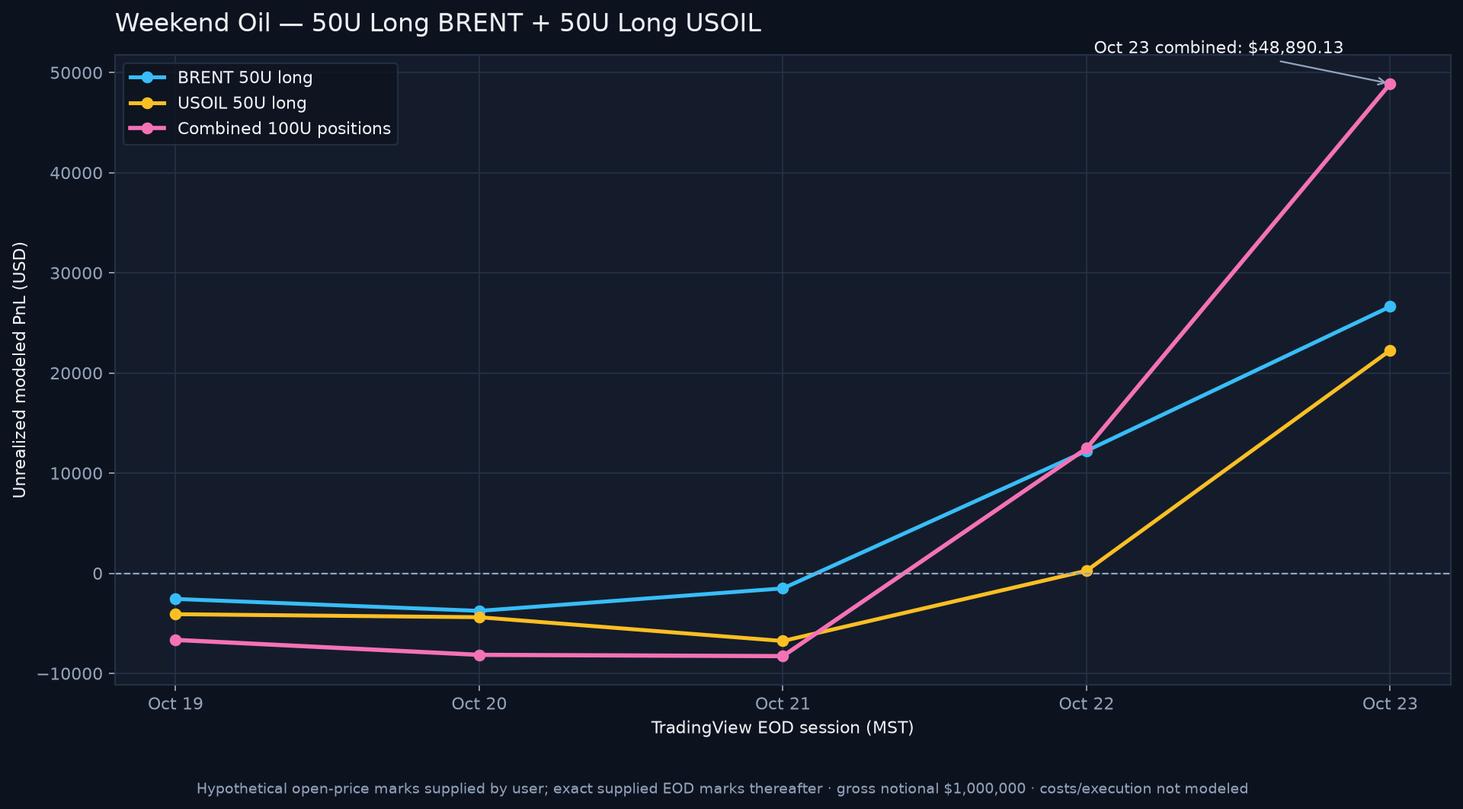
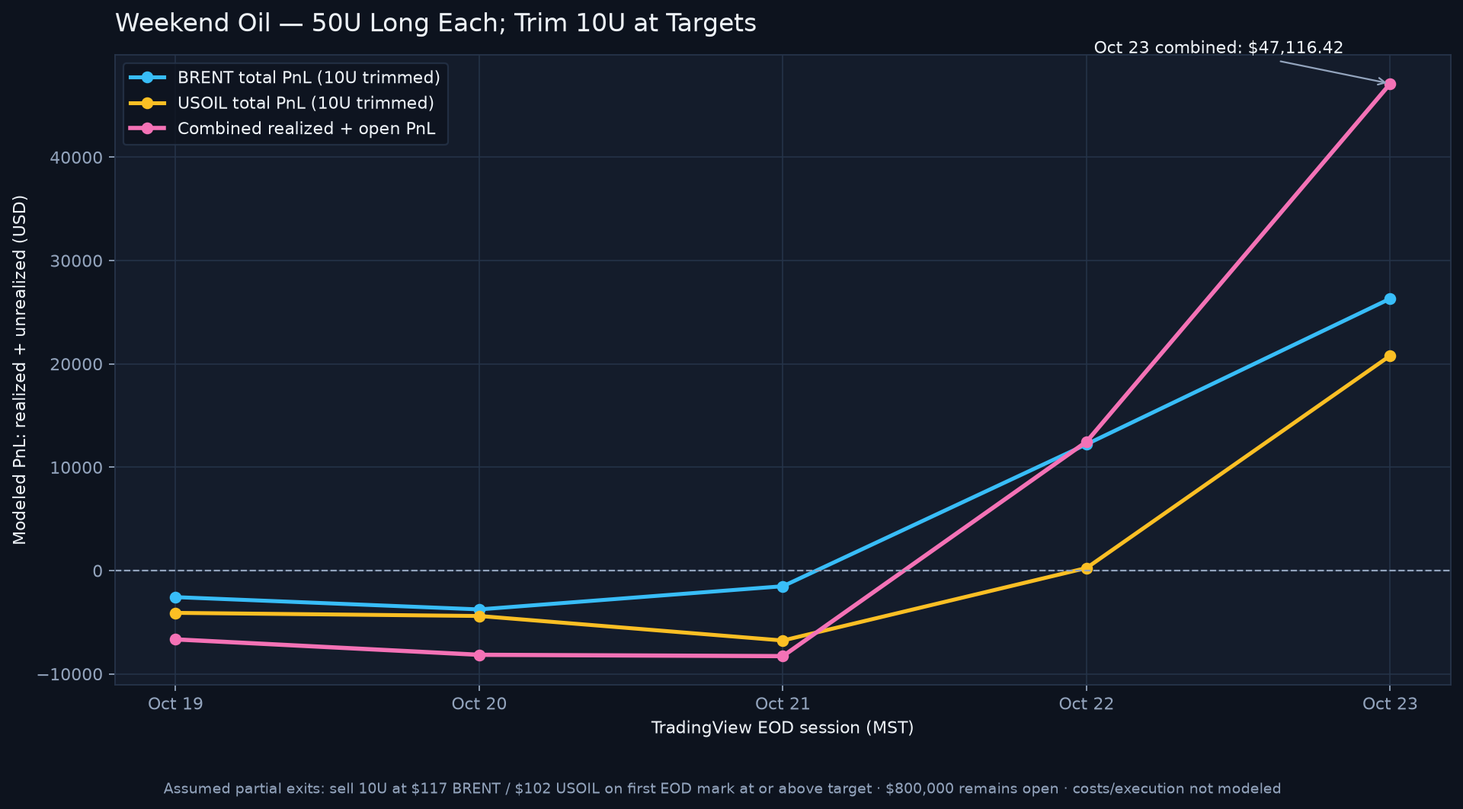
Model partial oil trims from thesis targets

diff --git a/Model Performance Explorer.html b/Model Performance Explorer.html
@@ -110,7 +110,7 @@
   </div>
 
   <footer>
-    Generated 2026-10-25 04:34 MST. Core marks: user-provided TradingView EOD lists. The four variants model
+    Generated 2026-10-25 04:42 MST. Core marks: user-provided TradingView EOD lists. The four variants model
     the 31 direct-price symbols; the integrated 1U/DAY/DXY sleeve uses supplied DXY index marks.
     EURUSD, JPYUSD and US30Y are outside this portfolio valuation. LCID pilot marks are user-provided. The per-model US10Y additive overlay is retained as a legacy reference only; whole-account US10Y and US30Y multiplier scenarios live in the linked explorer. The Oct 23 ORCL LONG and fifth LCID LONG are included in this EOD model replay.
     Intraday source charts remain through Oct 22. The master <b>Trades Zip PnL.md</b> has not been recalculated for

diff --git a/scripts/build_weekend_oil_50u_positions.py b/scripts/build_weekend_oil_50u_positions.py
@@ -36,12 +36,16 @@ POSITIONS = {
         "instrument": "BlackBull Markets Brent Cash EOD marks",
         "entry_price": Decimal("111.412"),
         "entry_source": "User-provided TradingView opening mark for 2026-10-19",
+        "trim_units_u": Decimal("10"),
+        "trim_price": Decimal("117"),
     },
     "OIL": {
         "display_ticker": "USOIL (repository ticker OIL)",
         "instrument": "TradingView TVC:USOIL EOD marks",
         "entry_price": Decimal("99.04"),
         "entry_source": "User-provided TradingView opening mark for 2026-10-19",
+        "trim_units_u": Decimal("10"),
+        "trim_price": Decimal("102"),
     },
 }
 SOURCE_URL = "https://github.com/A44674928/Financial_Model_Records/blob/main/Weekend%20Oil%20(10-17%20%26%2010-18).zip"
@@ -96,14 +100,27 @@ def build_rows():
         raise ValueError(f"Weekend Oil source archive SHA-256 mismatch: {actual_sha}")
 
     marks = load_marks()
-    gross_notional = UNITS_U * UNIT_NOTIONAL_USD
+    opened_notional = UNITS_U * UNIT_NOTIONAL_USD
     rows = []
     for ticker, details in POSITIONS.items():
         entry = details["entry_price"]
+        trim_units = details["trim_units_u"]
+        trim_price = details["trim_price"]
+        trim_trigger = next((mark for mark in marks[ticker] if mark["close"] >= trim_price), None)
+        trim_date = trim_trigger["date"] if trim_trigger else ""
+        trim_gross_notional = trim_units * UNIT_NOTIONAL_USD
+        trim_realized_pnl = _money(trim_gross_notional * (trim_price / entry - Decimal("1")))
+
         for session_number, mark in enumerate(marks[ticker], start=1):
             close = mark["close"]
-            pnl = _money(gross_notional * (close / entry - Decimal("1")))
-            market_value = _money(gross_notional + pnl)
+            trim_has_filled = bool(trim_date and mark["date"] >= trim_date)
+            sold_units = trim_units if trim_has_filled else Decimal("0")
+            open_units = UNITS_U - sold_units
+            open_notional = open_units * UNIT_NOTIONAL_USD
+            realized_pnl = trim_realized_pnl if trim_has_filled else Decimal("0.00")
+            remaining_unrealized_pnl = _money(open_notional * (close / entry - Decimal("1")))
+            total_pnl = realized_pnl + remaining_unrealized_pnl
+            market_value = _money(open_notional + remaining_unrealized_pnl)
             rows.append({
                 "date": mark["date"],
                 "ticker": details["display_ticker"],
@@ -112,14 +129,22 @@ def build_rows():
                 "entry_date": ENTRY_DATE,
                 "entry_price": f"{entry:f}",
                 "entry_price_source": details["entry_source"],
-                "unit_size_u": f"{UNITS_U:f}",
-                "unit_notional_usd": f"{UNIT_NOTIONAL_USD:f}",
-                "gross_notional_usd": f"{gross_notional:.2f}",
+                "opened_units_u": f"{UNITS_U:f}",
+                "opened_gross_notional_usd": f"{opened_notional:.2f}",
+                "trim_units_u": f"{trim_units:f}",
+                "trim_target_price": f"{trim_price:f}",
+                "assumed_trim_date": trim_date,
+                "units_sold_cumulative_u": f"{sold_units:f}",
+                "trim_gross_notional_usd": f"{trim_gross_notional:.2f}" if trim_has_filled else "0.00",
+                "realized_pnl_usd": f"{realized_pnl:.2f}",
+                "open_units_u": f"{open_units:f}",
+                "gross_open_notional_usd": f"{open_notional:.2f}",
                 "sessions_marked": str(session_number),
                 "eod_close": f"{close:f}",
-                "market_value_usd": f"{market_value:.2f}",
-                "unrealized_pnl_usd": f"{pnl:.2f}",
-                "pnl_to_gross_notional_pct": f"{(pnl / gross_notional * Decimal('100')).quantize(Decimal('0.000001'), rounding=ROUND_HALF_UP):.6f}",
+                "remaining_market_value_usd": f"{market_value:.2f}",
+                "remaining_unrealized_pnl_usd": f"{remaining_unrealized_pnl:.2f}",
+                "total_realized_plus_unrealized_pnl_usd": f"{total_pnl:.2f}",
+                "pnl_to_opening_gross_notional_pct": f"{(total_pnl / opened_notional * Decimal('100')).quantize(Decimal('0.000001'), rounding=ROUND_HALF_UP):.6f}",
                 "mark_source": mark["source"],
                 "mark_instrument": mark["instrument"],
             })
@@ -143,7 +168,7 @@ def write_chart(rows):
         for ticker in POSITIONS
     }
     combined = [
-        sum(Decimal(next(row for row in rows if row["repository_ticker"] == ticker and row["date"] == day)["unrealized_pnl_usd"])
+        sum(Decimal(next(row for row in rows if row["repository_ticker"] == ticker and row["date"] == day)["total_realized_plus_unrealized_pnl_usd"])
             for ticker in POSITIONS)
         for day in days
     ]
@@ -157,25 +182,25 @@ def write_chart(rows):
     ax.tick_params(colors=MUTED)
     for spine in ax.spines.values():
         spine.set_color(GRID)
-    for ticker, label in (("BRENT", "BRENT 50U long"), ("OIL", "USOIL 50U long")):
-        values = [Decimal(row["unrealized_pnl_usd"]) for row in by_ticker[ticker]]
+    for ticker, label in (("BRENT", "BRENT total PnL (10U trimmed)"), ("OIL", "USOIL total PnL (10U trimmed)")):
+        values = [Decimal(row["total_realized_plus_unrealized_pnl_usd"]) for row in by_ticker[ticker]]
         ax.plot(dates, [float(value) for value in values], marker="o", linewidth=2.3,
                 color=COLORS[ticker], label=label)
     ax.plot(dates, [float(value) for value in combined], marker="o", linewidth=2.5,
-            color=COLORS["COMBINED"], label="Combined 100U positions")
+            color=COLORS["COMBINED"], label="Combined realized + open PnL")
     ax.axhline(0, color=MUTED, linewidth=1, linestyle="--")
-    ax.set_ylabel("Unrealized modeled PnL (USD)", color=FG)
+    ax.set_ylabel("Modeled PnL: realized + unrealized (USD)", color=FG)
     ax.set_xlabel("TradingView EOD session (MST)", color=FG)
     ax.set_xticks(dates)
     ax.set_xticklabels([day.strftime("%b %d") for day in dates], color=MUTED)
-    ax.set_title("Weekend Oil — 50U Long BRENT + 50U Long USOIL", color=FG, loc="left", fontsize=15, pad=14)
+    ax.set_title("Weekend Oil — 50U Long Each; Trim 10U at Targets", color=FG, loc="left", fontsize=15, pad=14)
     ax.legend(facecolor=BG, edgecolor=GRID, labelcolor=FG)
     terminal = combined[-1]
     ax.annotate(f"Oct 23 combined: ${terminal:,.2f}", (dates[-1], float(terminal)),
                 xytext=(-175, 18), textcoords="offset points", color=FG,
                 arrowprops={"arrowstyle": "->", "color": MUTED})
     fig.text(0.5, 0.015,
-             "Hypothetical open-price marks supplied by user; exact supplied EOD marks thereafter · gross notional $1,000,000 · costs/execution not modeled",
+             "Assumed partial exits: sell 10U at $117 BRENT / $102 USOIL on first EOD mark at or above target · $800,000 remains open · costs/execution not modeled",
              ha="center", color=MUTED, fontsize=8.5)
     fig.tight_layout(rect=(0.02, 0.06, 0.99, 0.98))
     fig.savefig(CHART, dpi=160, facecolor=fig.get_facecolor(), bbox_inches="tight")
@@ -187,47 +212,61 @@ def write_report(rows):
     lines = [
         "# Weekend Oil 50U Position Hypothetical",
         "",
-        "> **Hypothetical educational mark-to-market only.** These are not broker executions, a verified account return, or a recommendation. Both assumed positions remain open through the latest supplied EOD marks, with no costs, financing, slippage, or liquidation modeled.",
+        "> **Hypothetical educational mark-to-market only.** The partial exits below are assumed paper trades, not broker executions, a verified account return, or a recommendation. Costs, financing, slippage, and liquidation are not modeled.",
         "",
-        "## Position assumptions",
+        "## Position and trim assumptions",
         "",
-        "The user requested one **50U LONG** position in BRENT and one **50U LONG** position in USOIL, opened at the **2026-10-19 market open**. Under the repository convention of 1U = $10,000 notional, each position starts at $500,000 gross notional; combined gross notional is $1,000,000.",
+        "The user specified a **50U LONG** position each in BRENT and USOIL at the **2026-10-19 market open**, with entry marks of $111.412 and $99.04 respectively. The thesis instruction is modeled as selling **10U of BRENT at $117** and **10U of USOIL at $102**, leaving **40U open in each** after the assumed trims. At $10,000 notional per unit, opening gross notional is $1,000,000 total; $200,000 of unit-basis gross notional is trimmed and $800,000 remains open.",
         "",
-        "| Instrument | Internal ticker | Side / size | Assumed 2026-10-19 open | Entry-mark source | Daily EOD mark source | Oct. 23 EOD mark | Oct. 23 unrealized PnL | PnL ÷ gross notional |",
-        "|---|---|---:|---:|---|---|---:|---:|---:|",
+        "| Instrument | Entry price | Trim instruction | Modeled trigger session | Realized PnL on 10U sale | Oct. 23 EOD mark | Remaining 40U unrealized PnL | Total realized + unrealized PnL | Remaining gross open notional |",
+        "|---|---:|---|---|---:|---:|---:|---:|---:|",
     ]
     terminal_by_ticker = {}
     for ticker, details in POSITIONS.items():
         ticker_rows = [row for row in rows if row["repository_ticker"] == ticker]
         last = ticker_rows[-1]
-        terminal_by_ticker[ticker] = Decimal(last["unrealized_pnl_usd"])
+        terminal_by_ticker[ticker] = {
+            "realized": Decimal(last["realized_pnl_usd"]),
+            "unrealized": Decimal(last["remaining_unrealized_pnl_usd"]),
+            "total": Decimal(last["total_realized_plus_unrealized_pnl_usd"]),
+            "open_notional": Decimal(last["gross_open_notional_usd"]),
+        }
         entry_display = f"${details['entry_price']:,.3f}".rstrip("0").rstrip(".")
+        trim_display = f"${details['trim_price']:,.3f}".rstrip("0").rstrip(".")
         mark_display = f"${Decimal(last['eod_close']):,.3f}".rstrip("0").rstrip(".")
         lines.append(
-            f"| {details['display_ticker']} | `{ticker}` | 50U LONG | {entry_display} | User-provided TradingView open | "
-            f"{last['mark_source']} | {mark_display} | ${Decimal(last['unrealized_pnl_usd']):+,.2f} | "
-            f"{Decimal(last['pnl_to_gross_notional_pct']):.4f}% |"
+            f"| {details['display_ticker']} | {entry_display} | Sell 10U at {trim_display} | {last['assumed_trim_date']} | "
+            f"${terminal_by_ticker[ticker]['realized']:+,.2f} | {mark_display} | "
+            f"${terminal_by_ticker[ticker]['unrealized']:+,.2f} | ${terminal_by_ticker[ticker]['total']:+,.2f} | "
+            f"${terminal_by_ticker[ticker]['open_notional']:,.2f} |"
         )
-    combined = sum(terminal_by_ticker.values(), Decimal("0"))
+    combined_realized = sum((v["realized"] for v in terminal_by_ticker.values()), Decimal("0"))
+    combined_unrealized = sum((v["unrealized"] for v in terminal_by_ticker.values()), Decimal("0"))
+    combined_total = combined_realized + combined_unrealized
+    combined_ratio = (combined_total / (UNITS_U * UNIT_NOTIONAL_USD * 2) * 100).quantize(Decimal("0.0001"), rounding=ROUND_HALF_UP)
     lines.extend([
-        f"| **Combined** | — | **100U LONG** | — | — | — | — | **${combined:+,.2f}** | **{(combined / (UNITS_U * UNIT_NOTIONAL_USD * 2) * 100).quantize(Decimal('0.0001'), rounding=ROUND_HALF_UP):.4f}%** |",
+        f"| **Combined** | — | **Sell 20U total** | **2026-10-23 assumed** | **${combined_realized:+,.2f}** | — | **${combined_unrealized:+,.2f}** | **${combined_total:+,.2f}** | **$800,000.00** |",
+        "",
+        f"The combined realized PnL is **${combined_realized:,.2f}**; the remaining open positions carry **${combined_unrealized:,.2f}** unrealized PnL at the Oct. 23 marks. Total modeled PnL is **${combined_total:,.2f}**, or {combined_ratio:.4f}% of the original $1,000,000 gross notional—not an account return.",
         "",
         "## Session marks and PnL",
         "",
-        "PnL is marked using `gross notional × (EOD close ÷ assumed open − 1)`. Both positions are long and remain open. The Oct. 19 result is the first EOD mark after the assumed opening; it is not zero-PnL because the entry prices are the separately supplied market-open marks.",
+        "For the open portion, PnL is `open gross notional × (EOD close ÷ entry price − 1)`. When an EOD mark first equals or exceeds its trim target, the model assumes the specified 10U sale occurred at the target price, realizes that tranche's PnL, and marks the remaining 40U at the session close. Available daily data are closes only: Oct. 23 is the first recorded EOD at/above either target, so the report assigns that modeled trigger session. It does **not** verify the intraday touch, fill time, or actual execution at the target.",
         "",
-        "| EOD date | Instrument | EOD close | Gross notional | Unrealized PnL | PnL / gross notional | Mark source |",
-        "|---|---|---:|---:|---:|---:|---|",
+        "| EOD date | Instrument | EOD close | Units sold cumulative | Units open | Realized PnL | Remaining unrealized PnL | Total PnL | Mark source |",
+        "|---|---|---:|---:|---:|---:|---:|---:|---|",
     ])
     for row in rows:
         close = Decimal(row["eod_close"])
         lines.append(
-            f"| {row['date']} | {row['ticker']} | ${close:,.3f} | ${Decimal(row['gross_notional_usd']):,.2f} | "
-            f"${Decimal(row['unrealized_pnl_usd']):+,.2f} | {Decimal(row['pnl_to_gross_notional_pct']):.4f}% | {row['mark_source']} |"
+            f"| {row['date']} | {row['ticker']} | ${close:,.3f} | {Decimal(row['units_sold_cumulative_u']):g}U | "
+            f"{Decimal(row['open_units_u']):g}U | ${Decimal(row['realized_pnl_usd']):+,.2f} | "
+            f"${Decimal(row['remaining_unrealized_pnl_usd']):+,.2f} | "
+            f"${Decimal(row['total_realized_plus_unrealized_pnl_usd']):+,.2f} | {row['mark_source']} |"
         )
     lines.extend([
         "",
-        f"![50U long BRENT and 50U long USOIL hypothetical PnL](Charts/performance/{CHART.name})",
+        f"![50U long BRENT and USOIL positions with assumed 10U trims](Charts/performance/{CHART.name})",
         "",
         f"Session-level export: [`{OUTPUT_CSV.name}`](data/{OUTPUT_CSV.name}).",
         "",
@@ -235,10 +274,10 @@ def write_report(rows):
         "",
         f"- Weekend source archive: [`{SOURCE_ARCHIVE.name}`]({quote(SOURCE_ARCHIVE.name)}); [upstream GitHub file]({SOURCE_URL}) at commit `{SOURCE_COMMIT}`; SHA-256 `{SOURCE_SHA256}`.",
         "- The archive contains two annotated IG **Weekend Oil – US Crude (CLN25)** screenshots dated Oct. 17 and Oct. 18, not a complete OHLC history and not separate BRENT/USOIL Monday-open price files. The screenshots are retained as source context, not transcribed as daily marks.",
-        "- The two Oct. 19 open prices, BRENT $111.412 and USOIL $99.04, were provided by the user and identified as TradingView. BRENT is stored internally as `BRENT`; USOIL maps to the repository ticker `OIL`.",
+        "- The two Oct. 19 open prices, BRENT $111.412 and USOIL $99.04, and the trim levels/size were provided by the user. BRENT is stored internally as `BRENT`; USOIL maps to repository ticker `OIL`.",
         "- Subsequent EOD values come from [`energy_provider_eod_marks_v1.csv`](data/energy_provider_eod_marks_v1.csv): BlackBull Markets Brent Cash for BRENT and TradingView TVC:USOIL for OIL. No new or external daily prices are inserted.",
-        "- This one-time 50U-per-instrument overlay is **not included** in the core replay, THE ONE MODEL's 32-portfolio aggregate, or standard 10U energy strategy-comparison composites. It is a separate hypothetical with $1,000,000 combined gross notional, not an account-capital return.",
-        "- PnL excludes commissions, spread, slippage, financing, CFD contract multipliers/tracking differences, taxes, margin, and execution constraints. The notional-percentage view is a simple gross-notional ratio, not an account return.",
+        "- The assumed target sale is not included in the core replay, THE ONE MODEL's 32-portfolio aggregate, or standard 10U energy strategy-comparison composites. This is a separate hypothetical position overlay, not a change to those model results.",
+        "- PnL excludes commissions, spread, slippage, financing, CFD contract multipliers/tracking differences, taxes, margin, and execution constraints. The percentage shown is measured against opening gross notional, not account equity.",
         "",
     ])
     REPORT.write_text("\n".join(lines), encoding="utf-8")

diff --git a/tests/test_weekend_oil_50u_positions.py b/tests/test_weekend_oil_50u_positions.py
@@ -15,19 +15,31 @@ class WeekendOil50UPositionTests(unittest.TestCase):
         cls.rows = weekend_oil.build_rows()
         cls.report = weekend_oil.REPORT.read_text(encoding="utf-8")
 
-    def test_open_assumptions_and_terminal_pnl_reconcile(self):
+    def test_open_assumptions_trim_levels_and_terminal_pnl_reconcile(self):
         self.assertEqual(len(self.rows), 10)
         terminal = {row["repository_ticker"]: row for row in self.rows if row["date"] == "2026-10-23"}
         self.assertEqual(terminal["BRENT"]["entry_price"], "111.412")
         self.assertEqual(terminal["OIL"]["entry_price"], "99.04")
-        self.assertEqual(terminal["BRENT"]["gross_notional_usd"], "500000.00")
-        self.assertEqual(terminal["OIL"]["gross_notional_usd"], "500000.00")
-        self.assertEqual(terminal["BRENT"]["unrealized_pnl_usd"], "26626.40")
-        self.assertEqual(terminal["OIL"]["unrealized_pnl_usd"], "22263.73")
-        self.assertEqual(
-            Decimal(terminal["BRENT"]["unrealized_pnl_usd"]) + Decimal(terminal["OIL"]["unrealized_pnl_usd"]),
-            Decimal("48890.13"),
-        )
+        self.assertEqual(terminal["BRENT"]["opened_gross_notional_usd"], "500000.00")
+        self.assertEqual(terminal["OIL"]["opened_gross_notional_usd"], "500000.00")
+        self.assertEqual(terminal["BRENT"]["trim_target_price"], "117")
+        self.assertEqual(terminal["OIL"]["trim_target_price"], "102")
+        self.assertEqual(terminal["BRENT"]["units_sold_cumulative_u"], "10")
+        self.assertEqual(terminal["OIL"]["units_sold_cumulative_u"], "10")
+        self.assertEqual(terminal["BRENT"]["open_units_u"], "40")
+        self.assertEqual(terminal["OIL"]["open_units_u"], "40")
+        self.assertEqual(terminal["BRENT"]["realized_pnl_usd"], "5015.62")
+        self.assertEqual(terminal["OIL"]["realized_pnl_usd"], "2988.69")
+        self.assertEqual(terminal["BRENT"]["remaining_unrealized_pnl_usd"], "21301.12")
+        self.assertEqual(terminal["OIL"]["remaining_unrealized_pnl_usd"], "17810.99")
+        self.assertEqual(terminal["BRENT"]["total_realized_plus_unrealized_pnl_usd"], "26316.74")
+        self.assertEqual(terminal["OIL"]["total_realized_plus_unrealized_pnl_usd"], "20799.68")
+        total = sum(Decimal(row["total_realized_plus_unrealized_pnl_usd"]) for row in terminal.values())
+        realized = sum(Decimal(row["realized_pnl_usd"]) for row in terminal.values())
+        unrealized = sum(Decimal(row["remaining_unrealized_pnl_usd"]) for row in terminal.values())
+        self.assertEqual(total, Decimal("47116.42"))
+        self.assertEqual(realized, Decimal("8004.31"))
+        self.assertEqual(unrealized, Decimal("39112.11"))
         self.assertTrue(all(row["side"] == "LONG" for row in self.rows))
 
     def test_daily_marks_cover_five_sessions_and_keep_sources_distinct(self):
@@ -36,9 +48,12 @@ class WeekendOil50UPositionTests(unittest.TestCase):
             rows = [row for row in self.rows if row["repository_ticker"] == ticker]
             self.assertEqual([row["date"] for row in rows], expected_dates)
             self.assertEqual([row["sessions_marked"] for row in rows], ["1", "2", "3", "4", "5"])
+            self.assertEqual([row["units_sold_cumulative_u"] for row in rows[:4]], ["0"] * 4)
+            self.assertEqual(rows[-1]["assumed_trim_date"], "2026-10-23")
         self.assertIn("BlackBull Markets Brent Cash", self.report)
         self.assertIn("TradingView TVC:USOIL", self.report)
         self.assertIn("not a complete OHLC history", self.report)
+        self.assertIn("does **not** verify the intraday touch", self.report)
 
     def test_overlay_is_linked_and_explicitly_excluded_from_main_models(self):
         self.assertIn("not included", self.report)
@@ -54,7 +69,7 @@ class WeekendOil50UPositionTests(unittest.TestCase):
             rows = list(csv.DictReader(handle))
         self.assertEqual(rows, self.rows)
         self.assertEqual(len(rows), 10)
-        self.assertEqual(rows[-1]["unrealized_pnl_usd"], "22263.73")
+        self.assertEqual(rows[-1]["total_realized_plus_unrealized_pnl_usd"], "20799.68")
 
 
 if __name__ == "__main__":

diff --git a/scripts/build_model_performance.py b/scripts/build_model_performance.py
@@ -1012,7 +1012,7 @@ def write_markdown(series, contrib, charts, daily_csv, ticker_csv, summary_json,
     A("")
     A("*The three panels show 0.05U, 1U, and 10U daily-lot PnL paths on separate scales. The 1U schedule is already included in core PnL; THE ONE MODEL adds the 10U schedule to every split portfolio (11U/DAY combined), while 0.05U remains an alternative.*")
     A("")
-    A("A separate user-requested scenario assumes 50U-long BRENT and 50U-long USOIL positions opened at the supplied Oct. 19 TradingView marks. It is excluded from the core replay, THE ONE MODEL aggregate, and standard energy composites; details and source notes are in [`Weekend Oil 50U Position Hypothetical.md`](Weekend%20Oil%2050U%20Position%20Hypothetical.md).")
+    A("A separate user-requested scenario assumes 50U-long BRENT and 50U-long USOIL positions opened at the supplied Oct. 19 TradingView marks, then models a 10U trim at $117 BRENT and $102 USOIL. It is excluded from the core replay, THE ONE MODEL aggregate, and standard energy composites; trim assumptions and source notes are in [`Weekend Oil 50U Position Hypothetical.md`](Weekend%20Oil%2050U%20Position%20Hypothetical.md).")
     A("")
     A("![50U long BRENT and 50U long USOIL hypothetical PnL](Charts/performance/24-weekend-oil-50u-positions.png)")
     A("")

diff --git a/scripts/build_tradingview_sidecars.py b/scripts/build_tradingview_sidecars.py
@@ -326,7 +326,7 @@ def write_report(oil_rows, dxy_rows):
         "",
         "## One-time Weekend Oil position overlay",
         "",
-        "A separate hypothetical assumes 50U LONG BRENT and 50U LONG USOIL positions opened at the user-provided TradingView prices on 2026-10-19. This is not part of the standard 0.05U/1U/10U daily-buy schedules, the 10U energy strategy composites, or THE ONE MODEL’s 32-portfolio aggregate. See [`Weekend Oil 50U Position Hypothetical.md`](Weekend%20Oil%2050U%20Position%20Hypothetical.md) for the entry marks, subsequent EOD PnL, source archive, and caveats.",
+        "A separate hypothetical assumes 50U LONG BRENT and 50U LONG USOIL positions opened at the user-provided TradingView prices on 2026-10-19, then models a 10U trim at $117 BRENT and $102 USOIL when the EOD marks first meet or exceed those targets. This is not part of the standard 0.05U/1U/10U daily-buy schedules, the 10U energy strategy composites, or THE ONE MODEL’s 32-portfolio aggregate. See [`Weekend Oil 50U Position Hypothetical.md`](Weekend%20Oil%2050U%20Position%20Hypothetical.md) for the entry marks, assumed trim PnL, subsequent EOD marks, source archive, and caveats.",
         "",
         "## DXY currency desk: daily long-investment alternatives",
         "",

diff --git a/Weekend Oil 50U Position Hypothetical.md b/Weekend Oil 50U Position Hypothetical.md
@@ -1,35 +1,37 @@
 # Weekend Oil 50U Position Hypothetical
 
-> **Hypothetical educational mark-to-market only.** These are not broker executions, a verified account return, or a recommendation. Both assumed positions remain open through the latest supplied EOD marks, with no costs, financing, slippage, or liquidation modeled.
+> **Hypothetical educational mark-to-market only.** The partial exits below are assumed paper trades, not broker executions, a verified account return, or a recommendation. Costs, financing, slippage, and liquidation are not modeled.
 
-## Position assumptions
+## Position and trim assumptions
 
-The user requested one **50U LONG** position in BRENT and one **50U LONG** position in USOIL, opened at the **2026-10-19 market open**. Under the repository convention of 1U = $10,000 notional, each position starts at $500,000 gross notional; combined gross notional is $1,000,000.
+The user specified a **50U LONG** position each in BRENT and USOIL at the **2026-10-19 market open**, with entry marks of $111.412 and $99.04 respectively. The thesis instruction is modeled as selling **10U of BRENT at $117** and **10U of USOIL at $102**, leaving **40U open in each** after the assumed trims. At $10,000 notional per unit, opening gross notional is $1,000,000 total; $200,000 of unit-basis gross notional is trimmed and $800,000 remains open.
 
-| Instrument | Internal ticker | Side / size | Assumed 2026-10-19 open | Entry-mark source | Daily EOD mark source | Oct. 23 EOD mark | Oct. 23 unrealized PnL | PnL ÷ gross notional |
-|---|---|---:|---:|---|---|---:|---:|---:|
-| BRENT | `BRENT` | 50U LONG | $111.412 | User-provided TradingView open | User-provided BlackBull Markets Brent Cash EOD | $117.345 | $+26,626.40 | 5.3253% |
-| USOIL (repository ticker OIL) | `OIL` | 50U LONG | $99.04 | User-provided TradingView open | User-provided TradingView TVC:USOIL EOD | $103.45 | $+22,263.73 | 4.4527% |
-| **Combined** | — | **100U LONG** | — | — | — | — | **$+48,890.13** | **4.8890%** |
+| Instrument | Entry price | Trim instruction | Modeled trigger session | Realized PnL on 10U sale | Oct. 23 EOD mark | Remaining 40U unrealized PnL | Total realized + unrealized PnL | Remaining gross open notional |
+|---|---:|---|---|---:|---:|---:|---:|---:|
+| BRENT | $111.412 | Sell 10U at $117 | 2026-10-23 | $+5,015.62 | $117.345 | $+21,301.12 | $+26,316.74 | $400,000.00 |
+| USOIL (repository ticker OIL) | $99.04 | Sell 10U at $102 | 2026-10-23 | $+2,988.69 | $103.45 | $+17,810.99 | $+20,799.68 | $400,000.00 |
+| **Combined** | — | **Sell 20U total** | **2026-10-23 assumed** | **$+8,004.31** | — | **$+39,112.11** | **$+47,116.42** | **$800,000.00** |
+
+The combined realized PnL is **$8,004.31**; the remaining open positions carry **$39,112.11** unrealized PnL at the Oct. 23 marks. Total modeled PnL is **$47,116.42**, or 4.7116% of the original $1,000,000 gross notional—not an account return.
 
 ## Session marks and PnL
 
-PnL is marked using `gross notional × (EOD close ÷ assumed open − 1)`. Both positions are long and remain open. The Oct. 19 result is the first EOD mark after the assumed opening; it is not zero-PnL because the entry prices are the separately supplied market-open marks.
+For the open portion, PnL is `open gross notional × (EOD close ÷ entry price − 1)`. When an EOD mark first equals or exceeds its trim target, the model assumes the specified 10U sale occurred at the target price, realizes that tranche's PnL, and marks the remaining 40U at the session close. Available daily data are closes only: Oct. 23 is the first recorded EOD at/above either target, so the report assigns that modeled trigger session. It does **not** verify the intraday touch, fill time, or actual execution at the target.
 
-| EOD date | Instrument | EOD close | Gross notional | Unrealized PnL | PnL / gross notional | Mark source |
-|---|---|---:|---:|---:|---:|---|
-| 2026-10-19 | BRENT | $110.840 | $500,000.00 | $-2,567.05 | -0.5134% | User-provided BlackBull Markets Brent Cash EOD |
-| 2026-10-20 | BRENT | $110.575 | $500,000.00 | $-3,756.33 | -0.7513% | User-provided BlackBull Markets Brent Cash EOD |
-| 2026-10-21 | BRENT | $111.075 | $500,000.00 | $-1,512.40 | -0.3025% | User-provided BlackBull Markets Brent Cash EOD |
-| 2026-10-22 | BRENT | $114.136 | $500,000.00 | $+12,224.89 | 2.4450% | User-provided BlackBull Markets Brent Cash EOD |
-| 2026-10-23 | BRENT | $117.345 | $500,000.00 | $+26,626.40 | 5.3253% | User-provided BlackBull Markets Brent Cash EOD |
-| 2026-10-19 | USOIL (repository ticker OIL) | $98.230 | $500,000.00 | $-4,089.26 | -0.8179% | User-provided TradingView TVC:USOIL EOD |
-| 2026-10-20 | USOIL (repository ticker OIL) | $98.170 | $500,000.00 | $-4,392.16 | -0.8784% | User-provided TradingView TVC:USOIL EOD |
-| 2026-10-21 | USOIL (repository ticker OIL) | $97.700 | $500,000.00 | $-6,764.94 | -1.3530% | User-provided TradingView TVC:USOIL EOD |
-| 2026-10-22 | USOIL (repository ticker OIL) | $99.090 | $500,000.00 | $+252.42 | 0.0505% | User-provided TradingView TVC:USOIL EOD |
-| 2026-10-23 | USOIL (repository ticker OIL) | $103.450 | $500,000.00 | $+22,263.73 | 4.4527% | User-provided TradingView TVC:USOIL EOD |
+| EOD date | Instrument | EOD close | Units sold cumulative | Units open | Realized PnL | Remaining unrealized PnL | Total PnL | Mark source |
+|---|---|---:|---:|---:|---:|---:|---:|---|
+| 2026-10-19 | BRENT | $110.840 | 0U | 50U | $+0.00 | $-2,567.05 | $-2,567.05 | User-provided BlackBull Markets Brent Cash EOD |
+| 2026-10-20 | BRENT | $110.575 | 0U | 50U | $+0.00 | $-3,756.33 | $-3,756.33 | User-provided BlackBull Markets Brent Cash EOD |
+| 2026-10-21 | BRENT | $111.075 | 0U | 50U | $+0.00 | $-1,512.40 | $-1,512.40 | User-provided BlackBull Markets Brent Cash EOD |
+| 2026-10-22 | BRENT | $114.136 | 0U | 50U | $+0.00 | $+12,224.89 | $+12,224.89 | User-provided BlackBull Markets Brent Cash EOD |
+| 2026-10-23 | BRENT | $117.345 | 10U | 40U | $+5,015.62 | $+21,301.12 | $+26,316.74 | User-provided BlackBull Markets Brent Cash EOD |
+| 2026-10-19 | USOIL (repository ticker OIL) | $98.230 | 0U | 50U | $+0.00 | $-4,089.26 | $-4,089.26 | User-provided TradingView TVC:USOIL EOD |
+| 2026-10-20 | USOIL (repository ticker OIL) | $98.170 | 0U | 50U | $+0.00 | $-4,392.16 | $-4,392.16 | User-provided TradingView TVC:USOIL EOD |
+| 2026-10-21 | USOIL (repository ticker OIL) | $97.700 | 0U | 50U | $+0.00 | $-6,764.94 | $-6,764.94 | User-provided TradingView TVC:USOIL EOD |
+| 2026-10-22 | USOIL (repository ticker OIL) | $99.090 | 0U | 50U | $+0.00 | $+252.42 | $+252.42 | User-provided TradingView TVC:USOIL EOD |
+| 2026-10-23 | USOIL (repository ticker OIL) | $103.450 | 10U | 40U | $+2,988.69 | $+17,810.99 | $+20,799.68 | User-provided TradingView TVC:USOIL EOD |
 
-![50U long BRENT and 50U long USOIL hypothetical PnL](Charts/performance/24-weekend-oil-50u-positions.png)
+![50U long BRENT and USOIL positions with assumed 10U trims](Charts/performance/24-weekend-oil-50u-positions.png)
 
 Session-level export: [`weekend_oil_50u_positions_v1.csv`](data/weekend_oil_50u_positions_v1.csv).
 
@@ -37,7 +39,7 @@ Session-level export: [`weekend_oil_50u_positions_v1.csv`](data/weekend_oil_50u_
 
[1 lines of base64/hex data omitted]
 - The archive contains two annotated IG **Weekend Oil – US Crude (CLN25)** screenshots dated Oct. 17 and Oct. 18, not a complete OHLC history and not separate BRENT/USOIL Monday-open price files. The screenshots are retained as source context, not transcribed as daily marks.
-- The two Oct. 19 open prices, BRENT $111.412 and USOIL $99.04, were provided by the user and identified as TradingView. BRENT is stored internally as `BRENT`; USOIL maps to the repository ticker `OIL`.
+- The two Oct. 19 open prices, BRENT $111.412 and USOIL $99.04, and the trim levels/size were provided by the user. BRENT is stored internally as `BRENT`; USOIL maps to repository ticker `OIL`.
 - Subsequent EOD values come from [`energy_provider_eod_marks_v1.csv`](data/energy_provider_eod_marks_v1.csv): BlackBull Markets Brent Cash for BRENT and TradingView TVC:USOIL for OIL. No new or external daily prices are inserted.
-- This one-time 50U-per-instrument overlay is **not included** in the core replay, THE ONE MODEL's 32-portfolio aggregate, or standard 10U energy strategy-comparison composites. It is a separate hypothetical with $1,000,000 combined gross notional, not an account-capital return.
-- PnL excludes commissions, spread, slippage, financing, CFD contract multipliers/tracking differences, taxes, margin, and execution constraints. The notional-percentage view is a simple gross-notional ratio, not an account return.
+- The assumed target sale is not included in the core replay, THE ONE MODEL's 32-portfolio aggregate, or standard 10U energy strategy-comparison composites. This is a separate hypothetical position overlay, not a change to those model results.
+- PnL excludes commissions, spread, slippage, financing, CFD contract multipliers/tracking differences, taxes, margin, and execution constraints. The percentage shown is measured against opening gross notional, not account equity.

diff --git a/Model Performance Comparison.md b/Model Performance Comparison.md
@@ -274,7 +274,7 @@ The sidecar report presents 0.05U, 1U, and 10U sizing schedules. The chart-direc
 
 *The three panels show 0.05U, 1U, and 10U daily-lot PnL paths on separate scales. The 1U schedule is already included in core PnL; THE ONE MODEL adds the 10U schedule to every split portfolio (11U/DAY combined), while 0.05U remains an alternative.*
 
-A separate user-requested scenario assumes 50U-long BRENT and 50U-long USOIL positions opened at the supplied Oct. 19 TradingView marks. It is excluded from the core replay, THE ONE MODEL aggregate, and standard energy composites; details and source notes are in [`Weekend Oil 50U Position Hypothetical.md`](Weekend%20Oil%2050U%20Position%20Hypothetical.md).
+A separate user-requested scenario assumes 50U-long BRENT and 50U-long USOIL positions opened at the supplied Oct. 19 TradingView marks, then models a 10U trim at $117 BRENT and $102 USOIL. It is excluded from the core replay, THE ONE MODEL aggregate, and standard energy composites; trim assumptions and source notes are in [`Weekend Oil 50U Position Hypothetical.md`](Weekend%20Oil%2050U%20Position%20Hypothetical.md).
 
 ![50U long BRENT and 50U long USOIL hypothetical PnL](Charts/performance/24-weekend-oil-50u-positions.png)
 

diff --git a/TradingView Energy and Currency Desk Sidecars.md b/TradingView Energy and Currency Desk Sidecars.md
@@ -19,7 +19,7 @@ For THE ONE MODEL only, the 11U/DAY schedule per active ticker is derived from t
 
 ## One-time Weekend Oil position overlay
 
-A separate hypothetical assumes 50U LONG BRENT and 50U LONG USOIL positions opened at the user-provided TradingView prices on 2026-10-19. This is not part of the standard 0.05U/1U/10U daily-buy schedules, the 10U energy strategy composites, or THE ONE MODEL’s 32-portfolio aggregate. See [`Weekend Oil 50U Position Hypothetical.md`](Weekend%20Oil%2050U%20Position%20Hypothetical.md) for the entry marks, subsequent EOD PnL, source archive, and caveats.
+A separate hypothetical assumes 50U LONG BRENT and 50U LONG USOIL positions opened at the user-provided TradingView prices on 2026-10-19, then models a 10U trim at $117 BRENT and $102 USOIL when the EOD marks first meet or exceed those targets. This is not part of the standard 0.05U/1U/10U daily-buy schedules, the 10U energy strategy composites, or THE ONE MODEL’s 32-portfolio aggregate. See [`Weekend Oil 50U Position Hypothetical.md`](Weekend%20Oil%2050U%20Position%20Hypothetical.md) for the entry marks, assumed trim PnL, subsequent EOD marks, source archive, and caveats.
 
 ## DXY currency desk: daily long-investment alternatives
 
